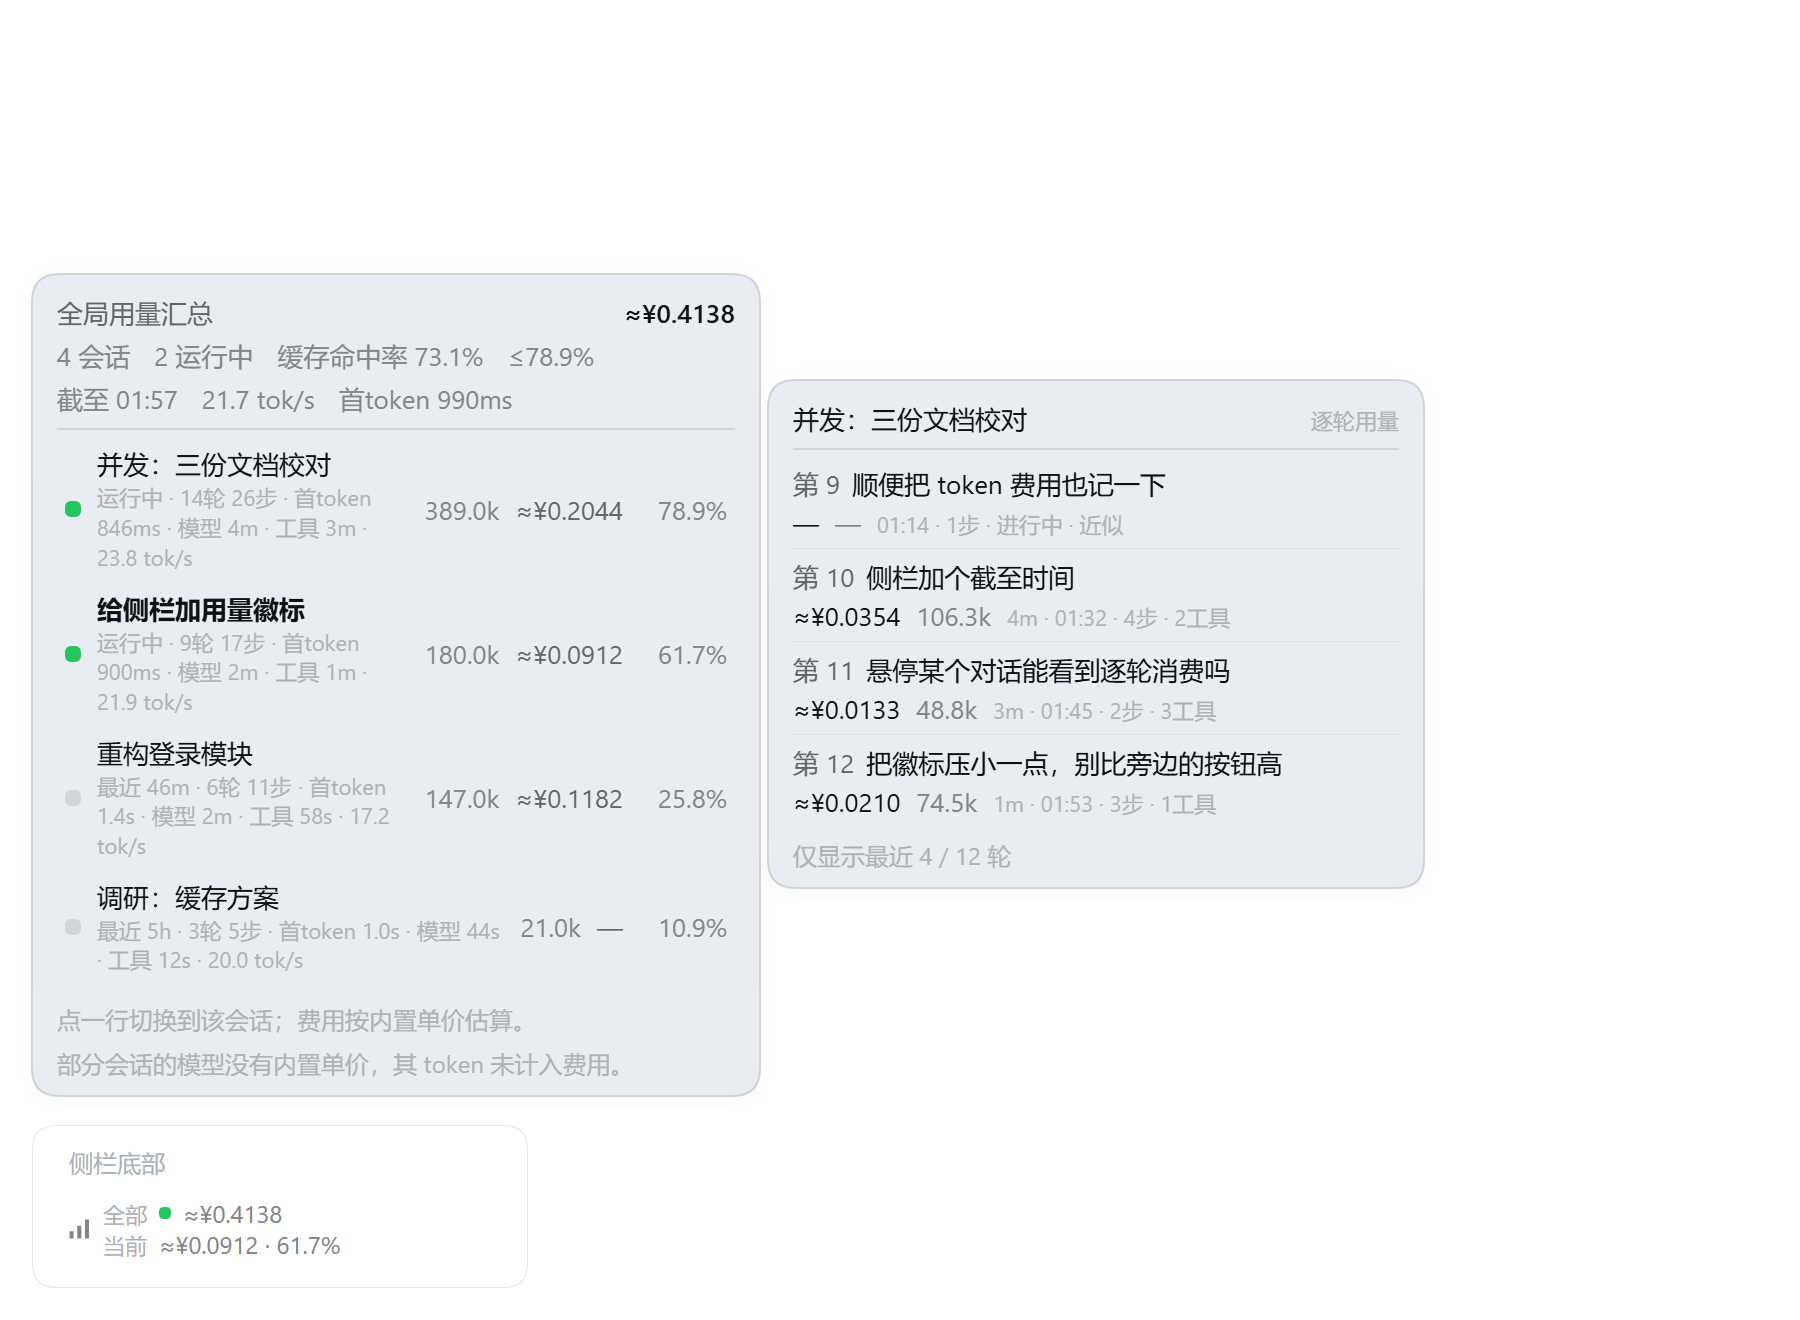
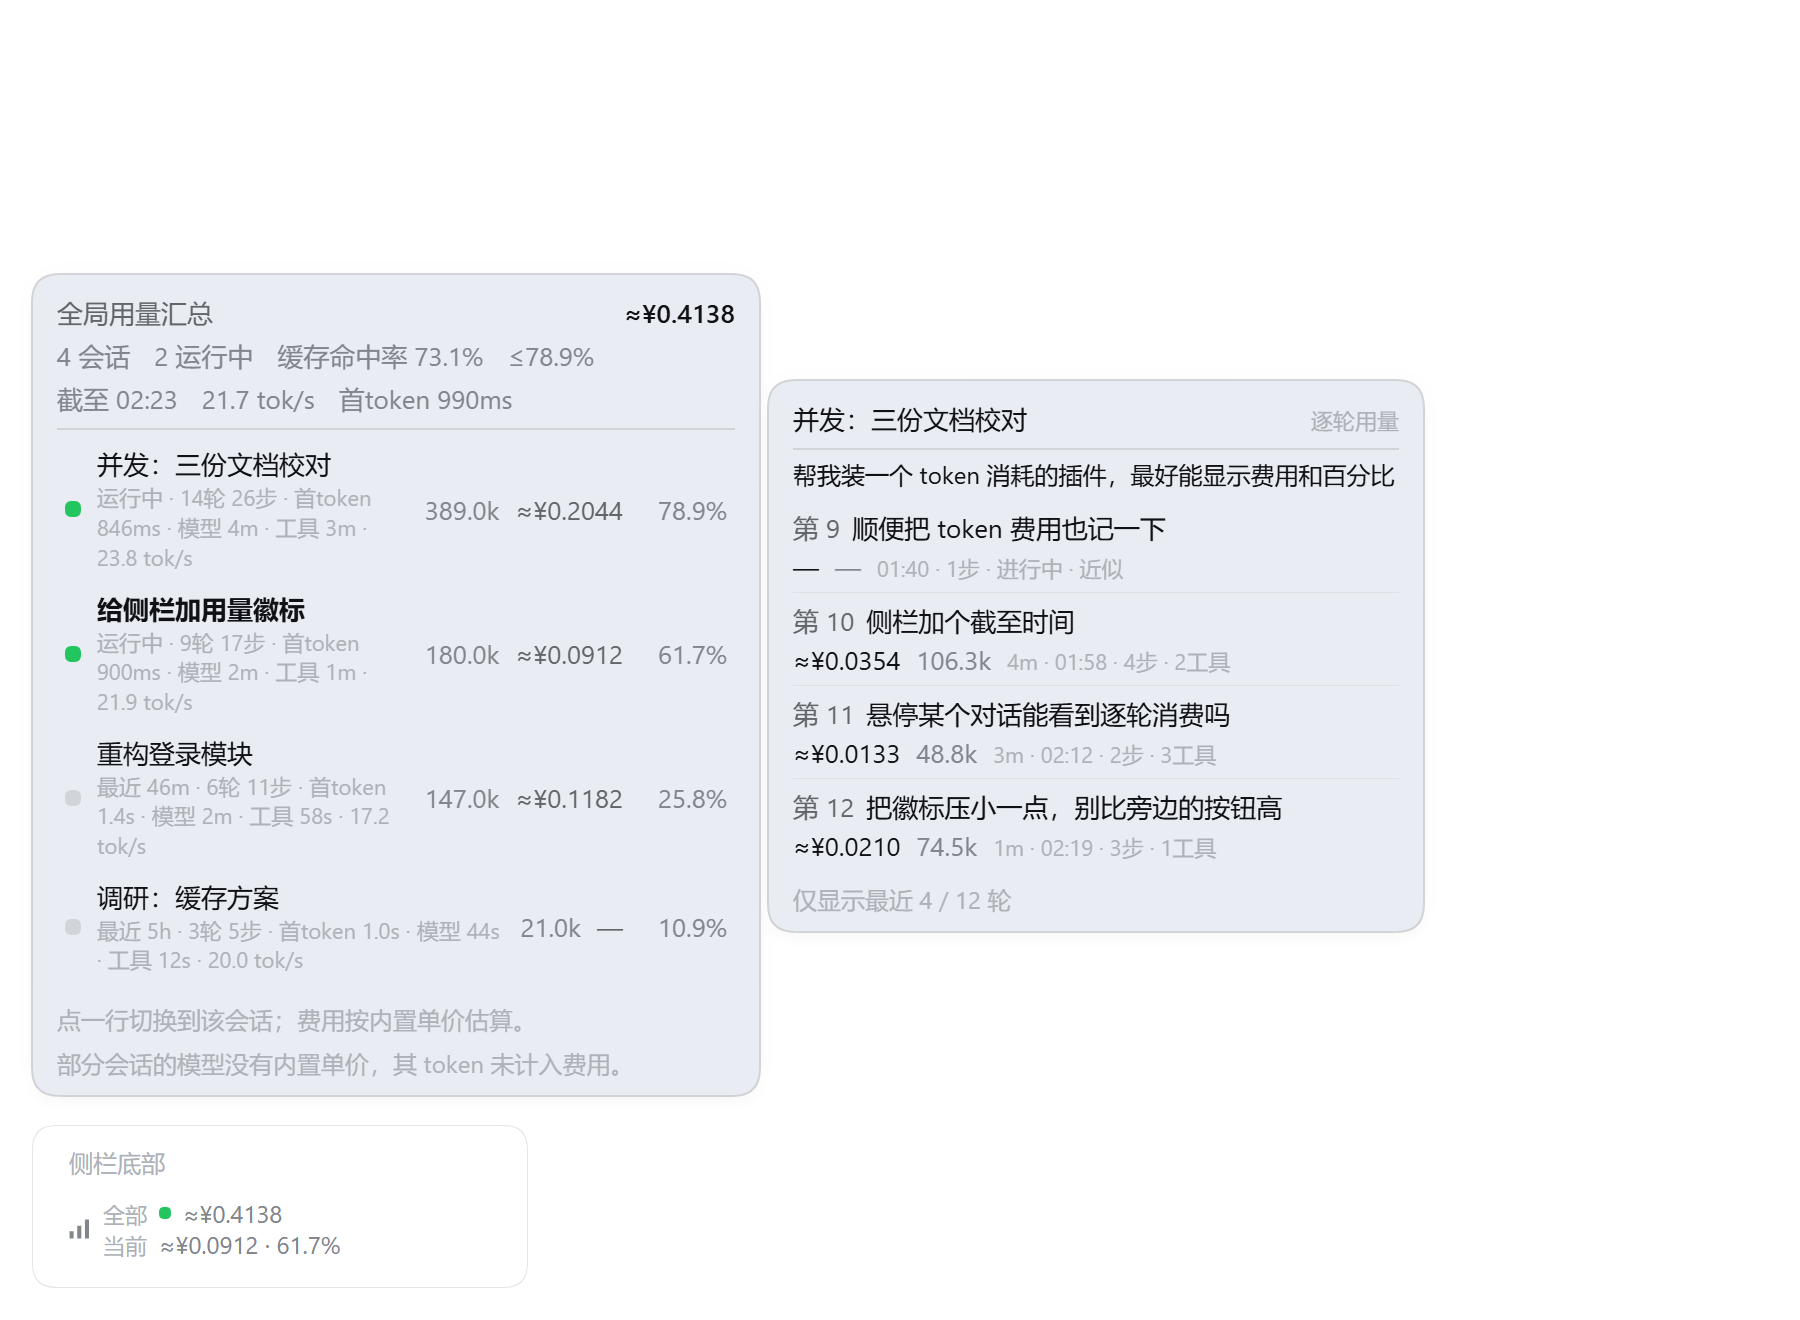
fix(turns): 摘要改取轮内那句话（turn/start 之后）；预览顶部显示会话首句

Changed region(s): [[0.4356, 0.3417, 0.7778, 0.7144], [0.0622, 0.2795, 0.0933, 0.3106]]

diff --git a/index.js b/index.js
@@ -63,18 +63,29 @@ function promptText(data) {
 export function turnsFromEvents(events) {
   const turns = [];
   let current = null;
-  // 触发该轮的那句人话：真人发言优先，找不到就用最近一条 user/message
-  let humanPrompt = null;
-  let anyPrompt = null;
+  // DSH 的顺序是「turn/start → 该轮的用户消息」，所以摘要要取**轮内**那句；
+  // 轮前那句只作兜底（注入轮/系统轮内部可能没有用户消息）。
+  let beforeHuman = null;
+  let beforeAny = null;
   for (const event of events) {
     if (event === null || typeof event !== 'object') continue;
     if (event.type === 'user/message') {
       const text = promptText(event.data);
       if (text !== null) {
-        anyPrompt = text;
-        if (event.data?.source?.clientTimeZone !== undefined) humanPrompt = text;
+        const human = event.data?.source?.clientTimeZone !== undefined;
+        if (current !== null) {
+          // 轮内：人话优先且取第一句；注入消息只在还没有人话时占位
+          if (human) {
+            if (current.humanSummary === null) current.humanSummary = text;
+          } else if (current.anySummary === null) {
+            current.anySummary = text;
+          }
+        } else if (human) {
+          beforeHuman = text;
+        } else {
+          beforeAny = text;
+        }
       }
-      if (current !== null && current.summary === null) current.summary = humanPrompt ?? anyPrompt;
       continue;
     }
     if (event.type === 'turn/start') {
@@ -84,7 +95,10 @@ export function turnsFromEvents(events) {
         endTime: null,
         steps: 0,
         toolCalls: 0,
-        summary: humanPrompt ?? anyPrompt,
+        humanSummary: null,
+        anySummary: null,
+        before: beforeHuman ?? beforeAny,
+        summary: null,
         closed: false,
         events: [event],
       };
@@ -98,8 +112,13 @@ export function turnsFromEvents(events) {
     if (event.type === 'turn/end') {
       current.endTime = typeof event.time === 'number' ? event.time : null;
       current.closed = true;
+      current.summary = current.humanSummary ?? current.anySummary ?? current.before ?? null;
       current = null;
     }
+  }
+  // 还在跑的那一轮（没有 turn/end）同样收尾
+  for (const turn of turns) {
+    if (turn.summary === null) turn.summary = turn.humanSummary ?? turn.anySummary ?? turn.before ?? null;
   }
   return turns;
 }
@@ -204,6 +223,17 @@ export function apply(ctx, config = {}) {
       }
     }
 
+    // 会话首句（第一句人话）：放在预览最上面，方便一眼认出是哪个对话
+    const firstPrompt = (() => {
+      for (const event of events ?? []) {
+        if (event?.type !== 'user/message') continue;
+        if (event.data?.source?.clientTimeZone === undefined) continue;
+        const text = promptText(event.data);
+        if (text !== null) return text;
+      }
+      return null;
+    })();
+
     const turns = remapTurnNumbers(foldTurns(events ?? [], config.fold), outline);
     const selected = turns.slice(Math.max(0, turns.length - limit));
     const payload = {
@@ -214,6 +244,7 @@ export function apply(ctx, config = {}) {
       folded: true,
       // 诊断用：投影里拿到几轮（null = 没拿到，退回日志编号）
       platformTurns: Array.isArray(outline) ? outline.length : null,
+      firstPrompt,
       probe,
       turns: selected,
     };

diff --git a/client.js b/client.js
@@ -185,6 +185,8 @@ window.__ModuleLoader__.load({
       '.tcs-turnsTitle{min-width:0;overflow:hidden;text-overflow:ellipsis;white-space:nowrap;color:var(--dsw-alias-label-primary)}',
       '.tcs-turnsMeta{flex:none;color:var(--dsw-alias-label-caption,var(--dsw-alias-label-tertiary));',
       'font-size:calc(var(--dsh-content-font-size-secondary,13px) - 2px)}',
+      '.tcs-turnsFirst{padding:4px 0 2px;color:var(--dsw-alias-label-primary);font-size:calc(var(--dsh-content-font-size-secondary,13px) - 1px);',
+      'display:-webkit-box;-webkit-line-clamp:2;-webkit-box-orient:vertical;overflow:hidden}',
       '.tcs-turnsList{display:flex;flex-direction:column;gap:1px;padding-top:4px}',
       '.tcs-turn{display:flex;flex-direction:column;gap:2px;padding:4px 0;',
       '.tcs-turnHead{display:flex;align-items:baseline;gap:6px;min-width:0}',
@@ -1055,6 +1057,10 @@ window.__ModuleLoader__.load({
                   h('span', { className: 'tcs-turnsTitle' }, previewRow === undefined ? tr('turnsTitle') : previewRow.title),
                   h('span', { className: 'tcs-turnsMeta' }, previewRow === undefined ? '' : tr('turnsTitle')),
                 ),
+                // 会话首句：放在最上面，先认出是哪个对话
+                typeof preview.firstPrompt === 'string' && preview.firstPrompt !== ''
+                  ? h('div', { className: 'tcs-turnsFirst', title: preview.firstPrompt }, preview.firstPrompt)
+                  : null,
                 preview.state === 'loading'
                   ? h('div', { className: 'tcs-turnsNote' }, tr('loading'))
                   : preview.state === 'error'
